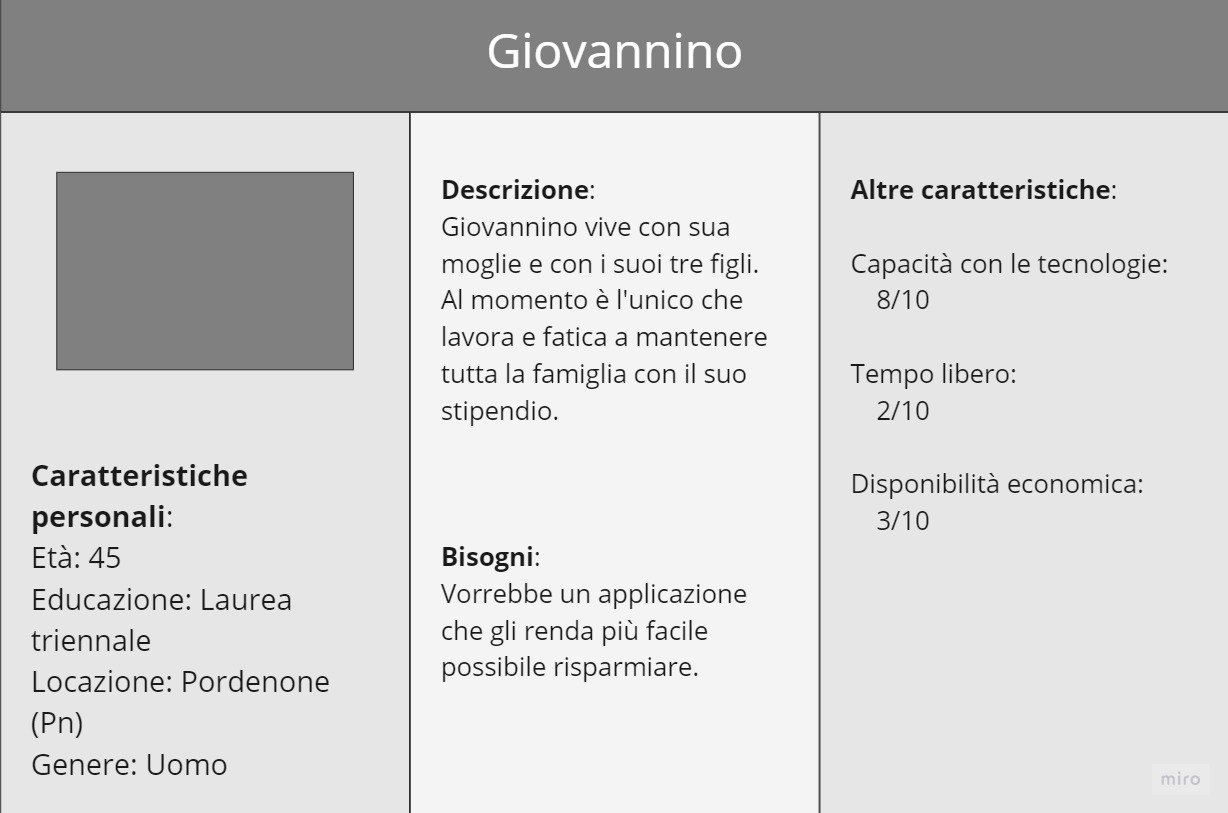
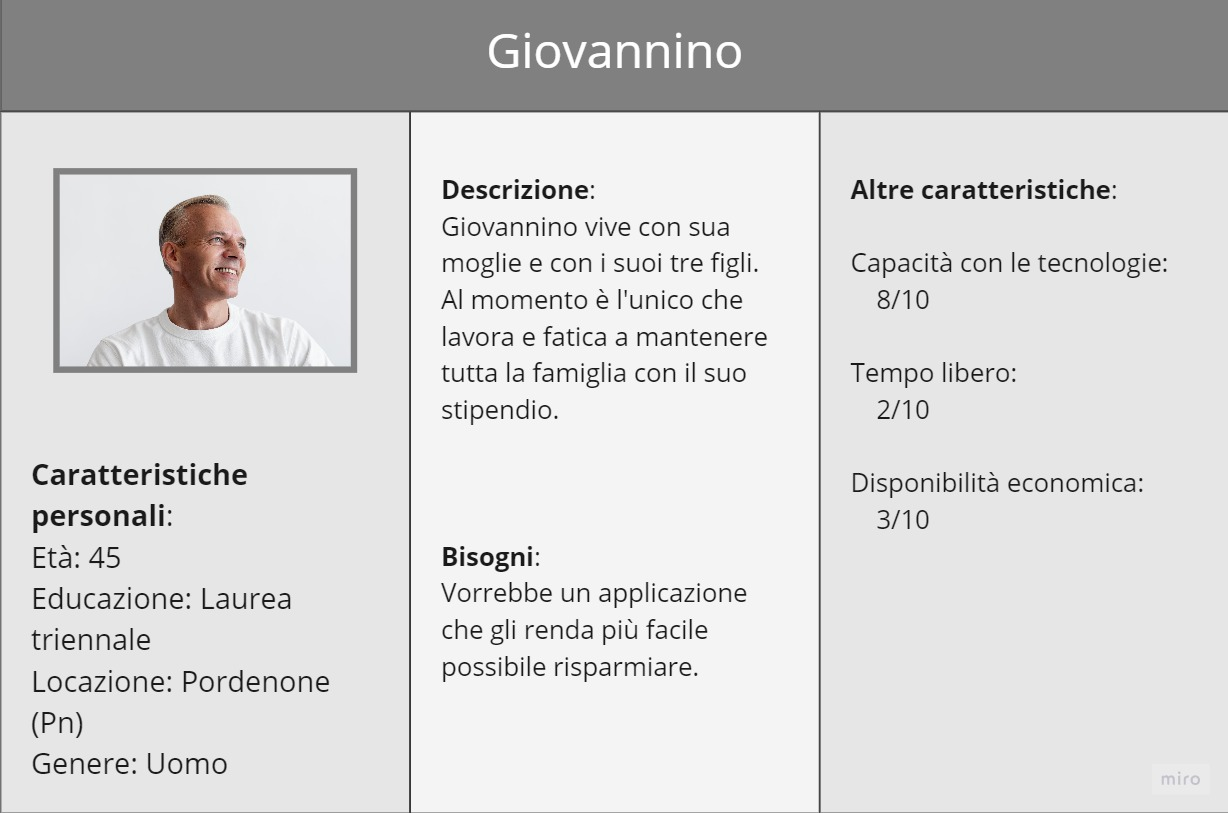
Modifiche personas

diff --git a/DocumentazioneProgetto/Relazione/Relazione.tex b/DocumentazioneProgetto/Relazione/Relazione.tex
@@ -1,0 +1,58 @@
+\documentclass[a4paper,titlepage,oneside,11pt]{book}
+
+\usepackage[utf8]{inputenc}
+\usepackage[italian]{babel}
+\usepackage[T1]{fontenc}
+\usepackage{microtype}
+\usepackage{indentfirst}
+\usepackage{booktabs}
+\usepackage{tabularx}
+\usepackage{graphicx}
+\usepackage{caption}
+\usepackage{subcaption}
+\usepackage{float}
+\usepackage{color}
+\usepackage{textcomp}
+\usepackage{xcolor}
+\usepackage{amssymb}
+\usepackage{amsmath}
+\usepackage{quoting}
+\usepackage{tikz}
+
+\usepackage{listings}
+\usepackage{color}
+
+\definecolor{dkgreen}{rgb}{0,0.6,0}
+\definecolor{gray}{rgb}{0.5,0.5,0.5}
+\definecolor{mauve}{rgb}{0.58,0,0.82}
+
+\lstset{frame=tb,
+  language=Java,
+  aboveskip=3mm,
+  belowskip=3mm,
+  showstringspaces=false,
+  columns=flexible,
+  basicstyle={\small\ttfamily},
+  numbers=none,
+  numberstyle=\tiny\color{gray},
+  keywordstyle=\color{blue},
+  commentstyle=\color{dkgreen},
+  stringstyle=\color{mauve},
+  breaklines=true,
+  breakatwhitespace=true,
+  tabsize=3
+}
+
+\usepackage{hyperref}
+
+\title{Complessità e teoria dell'informazione}
+\author{Simone Tomada}
+\date{Anno accademico 2022/2023}
+
+\begin{document}
+
+\maketitle
+
+\chapter{Introduction}
+
+\end{document}
